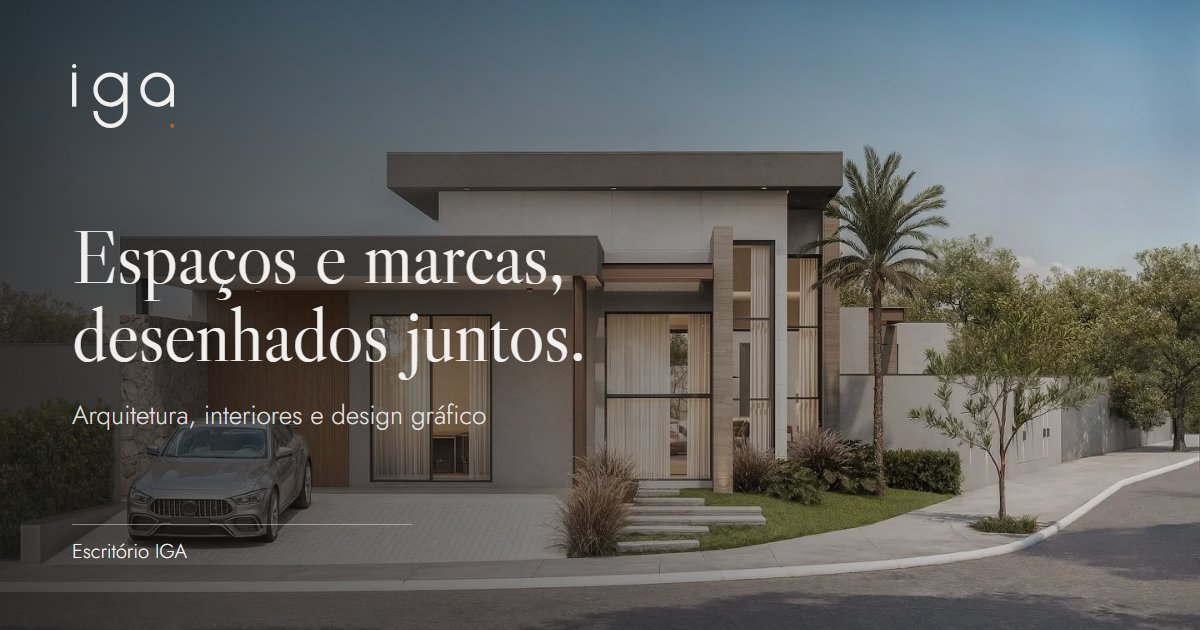
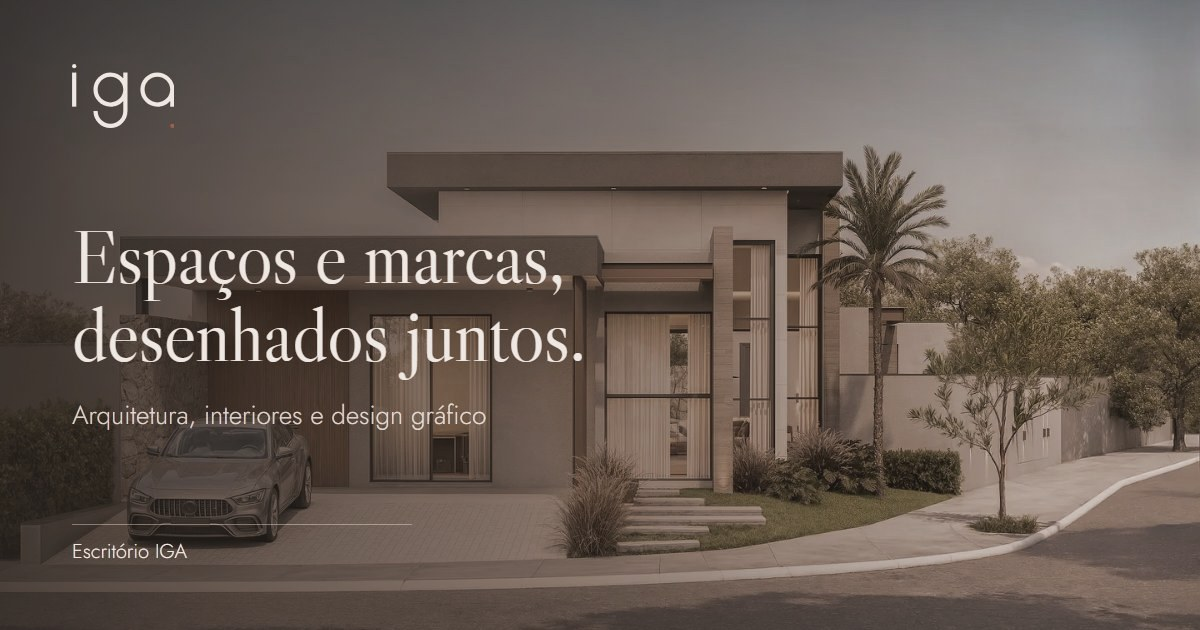
Rodape no celular, formas retas, cursor na galeria e foco por teclado
- Celular: aba dos icones sociais vai para o alto; rodape com Planta e
  Portfolio lado a lado e textos mais compactos
- Botao Menu, envio do formulario, etiquetas de Servicos e 404 com cantos retos
- Cursor customizado funciona dentro da galeria; "+" no lugar da seta nas fotos
- Sublinhado fixo some quando o cursor esta sobre o item atual do menu
- Contorno de foco em todos os links e botoes (argila sobre a oliva)
- Imagem de compartilhamento em tons quentes da paleta
- Limpeza: hero.css, comentarios do !important, .gitignore; README atualizado

Changed region(s): [[0.4625, 0.0, 1.0, 0.3619], [0.9867, 0.3619, 1.0, 0.3921]]

diff --git a/Public/css/sections/footer.css b/Public/css/sections/footer.css
@@ -65,7 +65,7 @@
   transition: color 0.2s ease, opacity 0.2s ease;
 }
 #footer .footer-col ul li a:hover,
-#footer .footer-col ul li a:focus-visible { color: var(--white); opacity: 1; outline: none; }
+#footer .footer-col ul li a:focus-visible { color: var(--white); opacity: 1; outline: 2px solid var(--argila); outline-offset: 4px; }
 #footer .footer-col ul li a svg { width: 1em; height: 1em; }
 /* E-mail e telefone não quebram linha */
 #footer .footer-col:last-child ul li a { overflow-wrap: normal; white-space: nowrap; }
@@ -139,7 +139,14 @@
   #footer-row { grid-template-columns: 1fr 1fr; gap: 2rem 1.5rem; }
   #footer-row .footer-col:last-child { grid-column: 1 / -1; }
 }
+/* Celular: Planta e Portfólio lado a lado, Contato embaixo ocupando a linha;
+   textos menores e mais juntos, para o rodapé não virar uma lista comprida */
 @media (max-width: 560px) {
-  #footer-row { grid-template-columns: 1fr; }
-  #footer-row .footer-col:last-child { grid-column: auto; }
+  #footer { padding: 2.25rem 1.25rem 1.5rem; }
+  #footer-row { grid-template-columns: minmax(0, 0.8fr) minmax(0, 1.2fr); gap: 2rem 1.25rem; }
+  #footer-row .footer-col:last-child { grid-column: 1 / -1; }
+  .footer-col h3 { font-size: 1rem; margin-bottom: 0.6rem; padding-bottom: 0.45rem; }
+  #footer .footer-col ul li a { font-size: 1rem; padding: 0.3em 0; }
+  .footer-svg { top: auto; bottom: 0; height: 60%; opacity: 0.25; }
+  #copyright { flex-direction: column; align-items: flex-start; gap: 0.4rem; padding: 1rem 1.25rem 1.25rem; font-size: 0.85rem; border-top: 1px solid rgba(247, 242, 236, 0.18); }
 }

diff --git a/Public/css/components/mouse.css b/Public/css/components/mouse.css
@@ -1,6 +1,7 @@
 /* Cursor customizado: só em dispositivos com mouse (JS adiciona .has-custom-cursor) */
 #custom-cursor { display: none; }
 
+/* !important de propósito: vence o cursor: pointer de links e botões em todo o site */
 .has-custom-cursor,
 .has-custom-cursor * { cursor: none !important; }
 
@@ -47,15 +48,15 @@
 }
 .has-custom-cursor #custom-cursor.is-explore.is-clicked { background: rgba(255, 255, 255, 0.4); }
 
-/* Fotos de Projetos: o anel mantém o tamanho e mostra uma seta.
-   Ao pressionar, o anel continua do mesmo tamanho, sem preenchimento, e a seta encolhe um pouco. */
+/* Fotos de Projetos: o anel mantém o tamanho e mostra um "+".
+   Ao pressionar, o anel continua do mesmo tamanho, sem preenchimento, e o "+" encolhe um pouco. */
 .has-custom-cursor #custom-cursor.is-photo.is-clicked { width: 22px; height: 22px; background: transparent; }
 .cursor-arrow {
     position: absolute;
     inset: 0;
     display: grid;
     place-items: center;
-    font: 400 12px/1 'Jost', sans-serif;
+    font: 300 18px/1 'Jost', sans-serif;
     color: var(--white);
     opacity: 0;
     transition: opacity 0.2s ease, transform 0.2s ease;
@@ -63,7 +64,7 @@
 .has-custom-cursor #custom-cursor.is-photo .cursor-arrow { opacity: 1; }
 .has-custom-cursor #custom-cursor.is-photo.is-clicked .cursor-arrow { transform: scale(0.8); }
 
-/* Campos de texto: cursor de digitação do sistema */
+/* Campos de texto: cursor de digitação do sistema (!important para vencer a regra geral acima) */
 .has-custom-cursor input,
 .has-custom-cursor textarea { cursor: text !important; }
 

diff --git a/Public/scripts/gallery.js b/Public/scripts/gallery.js
@@ -13,6 +13,12 @@ document.addEventListener('DOMContentLoaded', () => {
     const closeBtn = dialog.querySelector('.gallery-close');
     let current = 0;
     let opener = null;
+    // cursor customizado (mouse.js): a galeria fica na camada superior e cobriria o cursor,
+    // então ele entra na galeria ao abrir e volta para o body ao fechar
+    const cursor = document.getElementById('custom-cursor');
+    const moveCursor = (parent) => {
+        if (cursor && document.documentElement.classList.contains('has-custom-cursor')) parent.appendChild(cursor);
+    };
 
     function show(index) {
         current = (index + triggers.length) % triggers.length;
@@ -31,6 +37,7 @@ document.addEventListener('DOMContentLoaded', () => {
             opener = trigger;
             show(i);
             dialog.showModal();
+            moveCursor(dialog);
             closeBtn.focus();
         });
     });
@@ -48,5 +55,8 @@ document.addEventListener('DOMContentLoaded', () => {
     });
 
     // devolve o foco para a foto que abriu a galeria
-    dialog.addEventListener('close', () => { if (opener) opener.focus(); });
+    dialog.addEventListener('close', () => {
+        moveCursor(document.body);
+        if (opener) opener.focus();
+    });
 });

diff --git a/Public/css/sections/contact.css b/Public/css/sections/contact.css
@@ -190,7 +190,7 @@
   color: var(--white);
   background: var(--grafite);
   border: 0;
-  border-radius: 999px;
+  border-radius: 0;                    /* reto, como o carimbo do Contato */
   cursor: pointer;
   transition: background 0.2s ease, opacity 0.2s ease;
 }
@@ -243,6 +243,21 @@
 }
 @media (max-width: 560px) {
   .form-submit { width: 100%; }
+}
+/* Celular/tablet: a aba dos ícones sai da lateral (roubava ~60 px de largura do
+   formulário e do rodapé) e vira uma aba horizontal no alto, como a orelha de uma pasta */
+@media (max-width: 999px) {
+  #Connect { flex-direction: column; }
+  #social-container { flex-direction: row; }
+  #social-links {
+    flex-direction: row;
+    gap: 1.4em;
+    padding: 0.85em 1.2em;
+    border-radius: 0 0 var(--panel-radius) 0;
+  }
+  #social-links a { min-width: 1.75rem; min-height: 1.75rem; } /* alvo de toque maior */
+  #social-container-fill { border-radius: var(--panel-radius) var(--panel-radius) 0 0; }
+  #connect-container { border-radius: 0 0 var(--panel-radius) var(--panel-radius); }
 }
 
 /* A aba dos ícones é creme opaco (precisa cobrir o verde do canto); recebe o

diff --git a/Public/css/sections/hero.css b/Public/css/sections/hero.css
@@ -62,13 +62,15 @@
   color: var(--white);
   text-transform: none;
 }
-.hero-line { display: block; font-family: inherit; } /* o reset aplica Jost em * */
 
 /* Único momento de movimento: a frase sobe ao carregar */
 @keyframes hero-rise { from { opacity: 0; transform: translateY(0.6em); } to { opacity: 1; transform: none; } }
-.hero-line { animation: hero-rise 0.9s cubic-bezier(0.2, 0.7, 0.2, 1) both; }
+.hero-line {
+  display: block;
+  font-family: inherit; /* o reset aplica Jost em * */
+  animation: hero-rise 0.9s cubic-bezier(0.2, 0.7, 0.2, 1) both;
+}
 .hero-line:nth-child(2) { animation-delay: 0.12s; }
-.hero-caption { transition: opacity 0.6s ease; }
 .hero-caption.is-changing { opacity: 0; }
 
 /* ---------- Rodapé do hero: indicador de rolagem + nome do projeto ---------- */
@@ -93,6 +95,7 @@
   padding-top: 0.6rem;
   border-top: 1px solid rgba(242, 240, 239, 0.45);
   color: var(--white);
+  transition: opacity 0.6s ease;
 }
 .hero-caption-name { font: 400 1.05rem/1.2 'Libre Caslon Display', serif; }
 .hero-caption-meta { font: 300 0.85rem/1.2 'Jost', sans-serif; opacity: 0.8; white-space: nowrap; }

diff --git a/Public/scripts/mouse.js b/Public/scripts/mouse.js
@@ -2,7 +2,8 @@
 //   links e botões     -> o anel cresce
 //   links do menu e do rodapé -> o anel desliza para baixo da palavra e vira o sublinhado dela
 //   "Explore o espaço" -> o anel assume a forma do ícone do mouse do botão
-//   fotos de Projetos  -> aparece uma seta dentro do anel (a foto abre a galeria)
+//   fotos de Projetos  -> aparece um "+" dentro do anel (a foto amplia na galeria)
+//   galeria aberta     -> o anel entra na galeria (camada superior) e continua funcionando
 // Só em dispositivos com mouse; com "reduzir movimento" o anel acompanha sem atraso.
 (function () {
     const cursor = document.getElementById('custom-cursor');
@@ -14,7 +15,7 @@
     const arrow = document.createElement('span');
     arrow.className = 'cursor-arrow';
     arrow.setAttribute('aria-hidden', 'true');
-    arrow.textContent = '↗'; // ↗
+    arrow.textContent = '+'; // ampliar
     cursor.appendChild(arrow);
 
     const reduceMotion = window.matchMedia('(prefers-reduced-motion: reduce)').matches;

diff --git a/Public/css/components/navbar.css b/Public/css/components/navbar.css
@@ -79,6 +79,9 @@ html.past-hero .header-progress { opacity: 1; }
 #main-header .nav-link { position: relative; }
 #main-header .nav-link::before { content: ''; position: absolute; inset: -12px -10px; }
 /* Seção atual (marcada por header.js): sublinhado terracota */
+/* Com o cursor customizado em cima do item atual, o próprio cursor é o sublinhado:
+   o sublinhado fixo some para não aparecerem duas linhas */
+.has-custom-cursor #main-header .nav-link[aria-current]:hover { text-decoration-color: transparent; }
 #main-header .nav-link[aria-current] {
   text-decoration: underline;
   text-decoration-color: var(--new-terracota);
@@ -130,7 +133,7 @@ html.past-hero .header-progress { opacity: 1; }
     align-items: center;
     padding: 0.5rem 0.95rem;
     border: 1px solid currentColor;
-    border-radius: 999px;
+    border-radius: 0;                  /* reto, como o carimbo do Contato */
     background: transparent;
     color: inherit;
     font: 400 0.66rem/1 'Julius Sans One', sans-serif;

diff --git a/Public/css/base/style.css b/Public/css/base/style.css
@@ -50,3 +50,8 @@ body::before {
 .js .reveal { opacity: 0; transform: translateY(1.5rem); transition: opacity 0.9s ease, transform 0.9s cubic-bezier(0.2, 0.7, 0.2, 1); }
 .js .reveal.is-visible { opacity: 1; transform: none; }
 @media (prefers-reduced-motion: reduce) { .js .reveal { opacity: 1; transform: none; transition: none; } }
+
+/* Foco por teclado visível em todo link e botão (especificidade zero: as regras
+   das seções podem trocar). Sobre a oliva do Contato o contorno é argila. */
+:where(a, button, [tabindex]):focus-visible { outline: 2px solid var(--new-terracota); outline-offset: 3px; }
+:where(#Connect) :where(a, button):focus-visible { outline-color: var(--argila); }

diff --git a/404.html b/404.html
@@ -24,7 +24,7 @@
         h1 { font: 400 clamp(2rem, 5vw, 3.2rem)/1.05 'Libre Caslon Display', serif; margin-bottom: 1rem; }
         p { font-weight: 300; font-size: 1.1rem; line-height: 1.6; max-width: 30rem; margin: 0 auto 2rem; opacity: .85; }
         a.voltar {
-            display: inline-block; padding: .9rem 1.6rem; border-radius: 999px;
+            display: inline-block; padding: .9rem 1.6rem; border-radius: 0;
             background: #F2E8DC; color: #151515; text-decoration: none; font-weight: 500;
             transition: background .2s ease, color .2s ease;
         }

diff --git a/Public/css/sections/portfolio.css b/Public/css/sections/portfolio.css
@@ -268,6 +268,3 @@
   .gallery-img { max-height: 45svh; object-position: center; }
   .gallery-nav { width: 2.5rem; height: 2.5rem; font-size: 1.6rem; align-self: center; }
 }
-/* O cursor customizado fica atrás da galeria (camada superior): dentro dela volta o cursor normal */
-.has-custom-cursor .gallery, .has-custom-cursor .gallery * { cursor: auto !important; }
-.has-custom-cursor .gallery button { cursor: pointer !important; }

diff --git a/Public/css/sections/services.css b/Public/css/sections/services.css
@@ -67,7 +67,7 @@
 .service-body li {
   padding: 0.3rem 0.75rem;
   border: 1px solid rgba(43, 38, 34, 0.25);
-  border-radius: 999px;
+  border-radius: 0;                    /* etiquetas retas, como o carimbo do Contato */
   font-family: 'Jost', sans-serif;
   font-size: 0.82rem;
   color: var(--grafite);

diff --git a/README.md b/README.md
@@ -36,11 +36,11 @@ Revisão feita sem alterar nenhum arquivo do site. Cada item indica o arquivo e 
 
 ### 2. Consistência visual
 
-- [ ] **Duas linguagens de forma**: o carimbo do Contato tem cantos retos, mas o botão Menu no celular (`navbar.css`, `.menu-toggle`) e o botão da página 404 (`404.html`, `a.voltar`) são pílulas (`border-radius: 999px`). Decidir: se o carimbo é a marca, os botões secundários também podem ter cantos retos.
-- [ ] **Cursor sobre a galeria**: o cursor personalizado fica abaixo do `<dialog>` (top layer), então aparece o cursor nativo dentro da galeria. Opção: mover o elemento `#custom-cursor` para dentro do `<dialog>` ao abrir (`Public/scripts/gallery.js` e `mouse.js`).
-- [ ] **Seta ↗ nas fotos do portfólio**: sugere link externo, mas abre a galeria. Trocar por "+" ou por uma etiqueta "ver" (`portfolio.css`).
-- [ ] **Sublinhado duplicado no menu**: o item atual já tem sublinhado terracota e o hover também sublinha. Remover um dos dois (`navbar.css`, `.nav-link[aria-current]`).
-- [ ] **Imagem de compartilhamento** (`Public/assets/marca/compartilhar.jpg`): ainda usa as cores antigas. Refazer com a paleta atual.
+- [x] **Duas linguagens de forma**: o carimbo do Contato tem cantos retos, mas o botão Menu no celular (`navbar.css`, `.menu-toggle`) e o botão da página 404 (`404.html`, `a.voltar`) são pílulas (`border-radius: 999px`). Decidir: se o carimbo é a marca, os botões secundários também podem ter cantos retos. Feito: botão Menu, botão de envio, etiquetas de Serviços e botão da 404 agora são retos. Os botões redondos de ícone da galeria ficaram.
+- [x] **Cursor sobre a galeria**: o cursor personalizado fica abaixo do `<dialog>` (top layer), então aparece o cursor nativo dentro da galeria. Opção: mover o elemento `#custom-cursor` para dentro do `<dialog>` ao abrir (`Public/scripts/gallery.js` e `mouse.js`). Feito: o cursor entra no `<dialog>` ao abrir e volta ao `body` ao fechar (`gallery.js`).
+- [x] **Seta ↗ nas fotos do portfólio**: sugere link externo, mas abre a galeria. Trocar por "+" ou por uma etiqueta "ver" (`portfolio.css`). Feito: virou "+".
+- [x] **Sublinhado duplicado no menu**: o item atual já tem sublinhado terracota e o hover também sublinha. Remover um dos dois (`navbar.css`, `.nav-link[aria-current]`). Feito: com o cursor sobre o item atual, o sublinhado fixo some.
+- [x] **Imagem de compartilhamento** (`Public/assets/marca/compartilhar.jpg`): ainda usa as cores antigas. Refazer com a paleta atual. Feito: mesma foto e texto, em tons quentes da paleta.
 - [x] **Pretos fora da paleta**: `office.css` usa `rgba(21, 21, 21, …)` e `rgba(58, 58, 58, …)`; `portfolio.css` usa `rgba(21, 18, 16, …)` e `#38312C`. Trocar por `--grafite` (`#2B2622`) ou `--night` (`#1F1B18`) para manter a paleta quente.
 
 ### 3. Limpeza de código
@@ -51,24 +51,24 @@ Revisão feita sem alterar nenhum arquivo do site. Cada item indica o arquivo e 
   - `--jet` e `--navy-dark` viram `--grafite`: `marquee.css`, `office.css`, `contact.css`.
 - [x] **Cores fixas fora de `colors.css`**: `#2B2622` em `navbar.css` (5 vezes) e `portfolio.css` (2 vezes) vira `var(--grafite)`. `#fff` em `mouse.css`, `hero.css` e `portfolio.css` vira `var(--white)`. `#F2E8DC` em `portfolio.css` vira `var(--linho)`. A página 404 tem cores embutidas de propósito, porque é independente.
 - [x] **Typo de id**: `#socila-links` em `index.html` (linha 278) e `contact.css` (linhas 48, 56, 63, 250, 251). Renomear para `#social-links` nos dois arquivos, de uma vez.
-- [ ] **Regras duplicadas entre arquivos**: `.service-body` e `.service-photo` aparecem em `services.css` e `portfolio.css`. `.field textarea`, `.hero-caption` e `.hero-line` aparecem em dois arquivos cada. `body {` aparece em três. Conferir qual definição vale e apagar a outra, provavelmente cópias de quando o CSS foi dividido.
+- [x] **Regras duplicadas entre arquivos**: `.service-body` e `.service-photo` aparecem em `services.css` e `portfolio.css`. `.field textarea`, `.hero-caption` e `.hero-line` aparecem em dois arquivos cada. `body {` aparece em três. Conferir qual definição vale e apagar a outra, provavelmente cópias de quando o CSS foi dividido. Revisto: não havia cópias entre arquivos (o levantamento contou regras repetidas dentro do mesmo arquivo). As de `hero.css` foram unidas; as de `services.css` separam estado normal e transição, de propósito.
 - [x] **Propriedades sem efeito**: `font-stretch` (`style.css`, em `strong` e `p`) e `font-variation-settings: 'ital' 0` (`style.css`, em `body`). A Jost não tem eixo de largura, então `font-stretch` provavelmente não faz nada. Confirmar no navegador e remover.
-- [ ] **`!important` no cursor** (`mouse.css` linhas 5 e 56; `portfolio.css` linhas 272 e 273): são intencionais, para vencer o `cursor: pointer` dos links. Manter, mas documentar no comentário.
-- [ ] **`.gitignore`**: as linhas `server`, `Public/assets/icons/` e `Public/assets/img/` apontam para pastas que não existem. Remover ou confirmar se são de uso futuro.
-- [ ] **Classe possivelmente sobrando**: `.field textarea` em `portfolio.css` parece cópia do formulário de contato. Conferir se é usada.
+- [x] **`!important` no cursor** (`mouse.css` linhas 5 e 56; `portfolio.css` linhas 272 e 273): são intencionais, para vencer o `cursor: pointer` dos links. Manter, mas documentar no comentário. Feito: comentários adicionados; as regras da galeria saíram junto com o ajuste do cursor.
+- [x] **`.gitignore`**: as linhas `server`, `Public/assets/icons/` e `Public/assets/img/` apontam para pastas que não existem. Remover ou confirmar se são de uso futuro. Feito: agora ignora só `.DS_Store` e `Thumbs.db`.
+- [x] **Classe possivelmente sobrando**: `.field textarea` em `portfolio.css` parece cópia do formulário de contato. Conferir se é usada. Revisto: `.field textarea` só existe em `contact.css`; não há sobra.
 
 ### 4. Arquivos de imagem
 
 - [ ] **`Public/assets/projetos/Mata-Atlantica.webp`** (351 KB): não é referenciado em nenhuma página. Ou usar em um projeto do portfólio, ou apagar para reduzir o peso do repositório. Não apagar sem confirmar com a cliente, porque pode ser foto de projeto liberada.
 - [ ] **Imagens genéricas `generico-*.webp`**: são placeholders. Substituir pelas fotos reais quando a cliente enviar, e apagar os genéricos.
-- [ ] **Foto3**: o `Foto3.jpg` original foi removido e substituído por `Foto3-900.webp`. Conferir no GitHub que a versão antiga não ficou referenciada em outro lugar.
+- [x] **Foto3**: o `Foto3.jpg` original foi removido e substituído por `Foto3-900.webp`. Conferir no GitHub que a versão antiga não ficou referenciada em outro lugar. Feito: nenhuma referência a `Foto3.jpg`.
 
 ### 5. Verificações antes de publicar
 
-- [ ] Conferir o carimbo do Contato e o painel oliva em largura de celular (menos de 999 px).
+- [x] Conferir o carimbo do Contato e o painel oliva em largura de celular (menos de 999 px). Feito: carimbo ok; no celular a aba dos ícones foi para o alto e o rodapé ganhou duas colunas.
 - [ ] Enviar uma mensagem de teste pelo formulário (feito por você, com dados de teste) e confirmar a linha na planilha. Ver `docs/google-sheets-setup.md`.
-- [ ] Testar com `prefers-reduced-motion` ativado: o cursor, a navbar e a revelação ao rolar devem ficar sem animação.
-- [ ] Checar a navegação por teclado: foco visível em links, botões, carimbo e itens da galeria.
+- [x] Testar com `prefers-reduced-motion` ativado: o cursor, a navbar e a revelação ao rolar devem ficar sem animação. Conferido no código: cursor, hero, revelação e navbar respeitam a preferência.
+- [x] Checar a navegação por teclado: foco visível em links, botões, carimbo e itens da galeria. Feito: contorno de foco em todos os links e botões (argila sobre a oliva); os links do rodapé tinham o contorno removido.
 
 ### 6. Depende da cliente (bloqueado)
 
